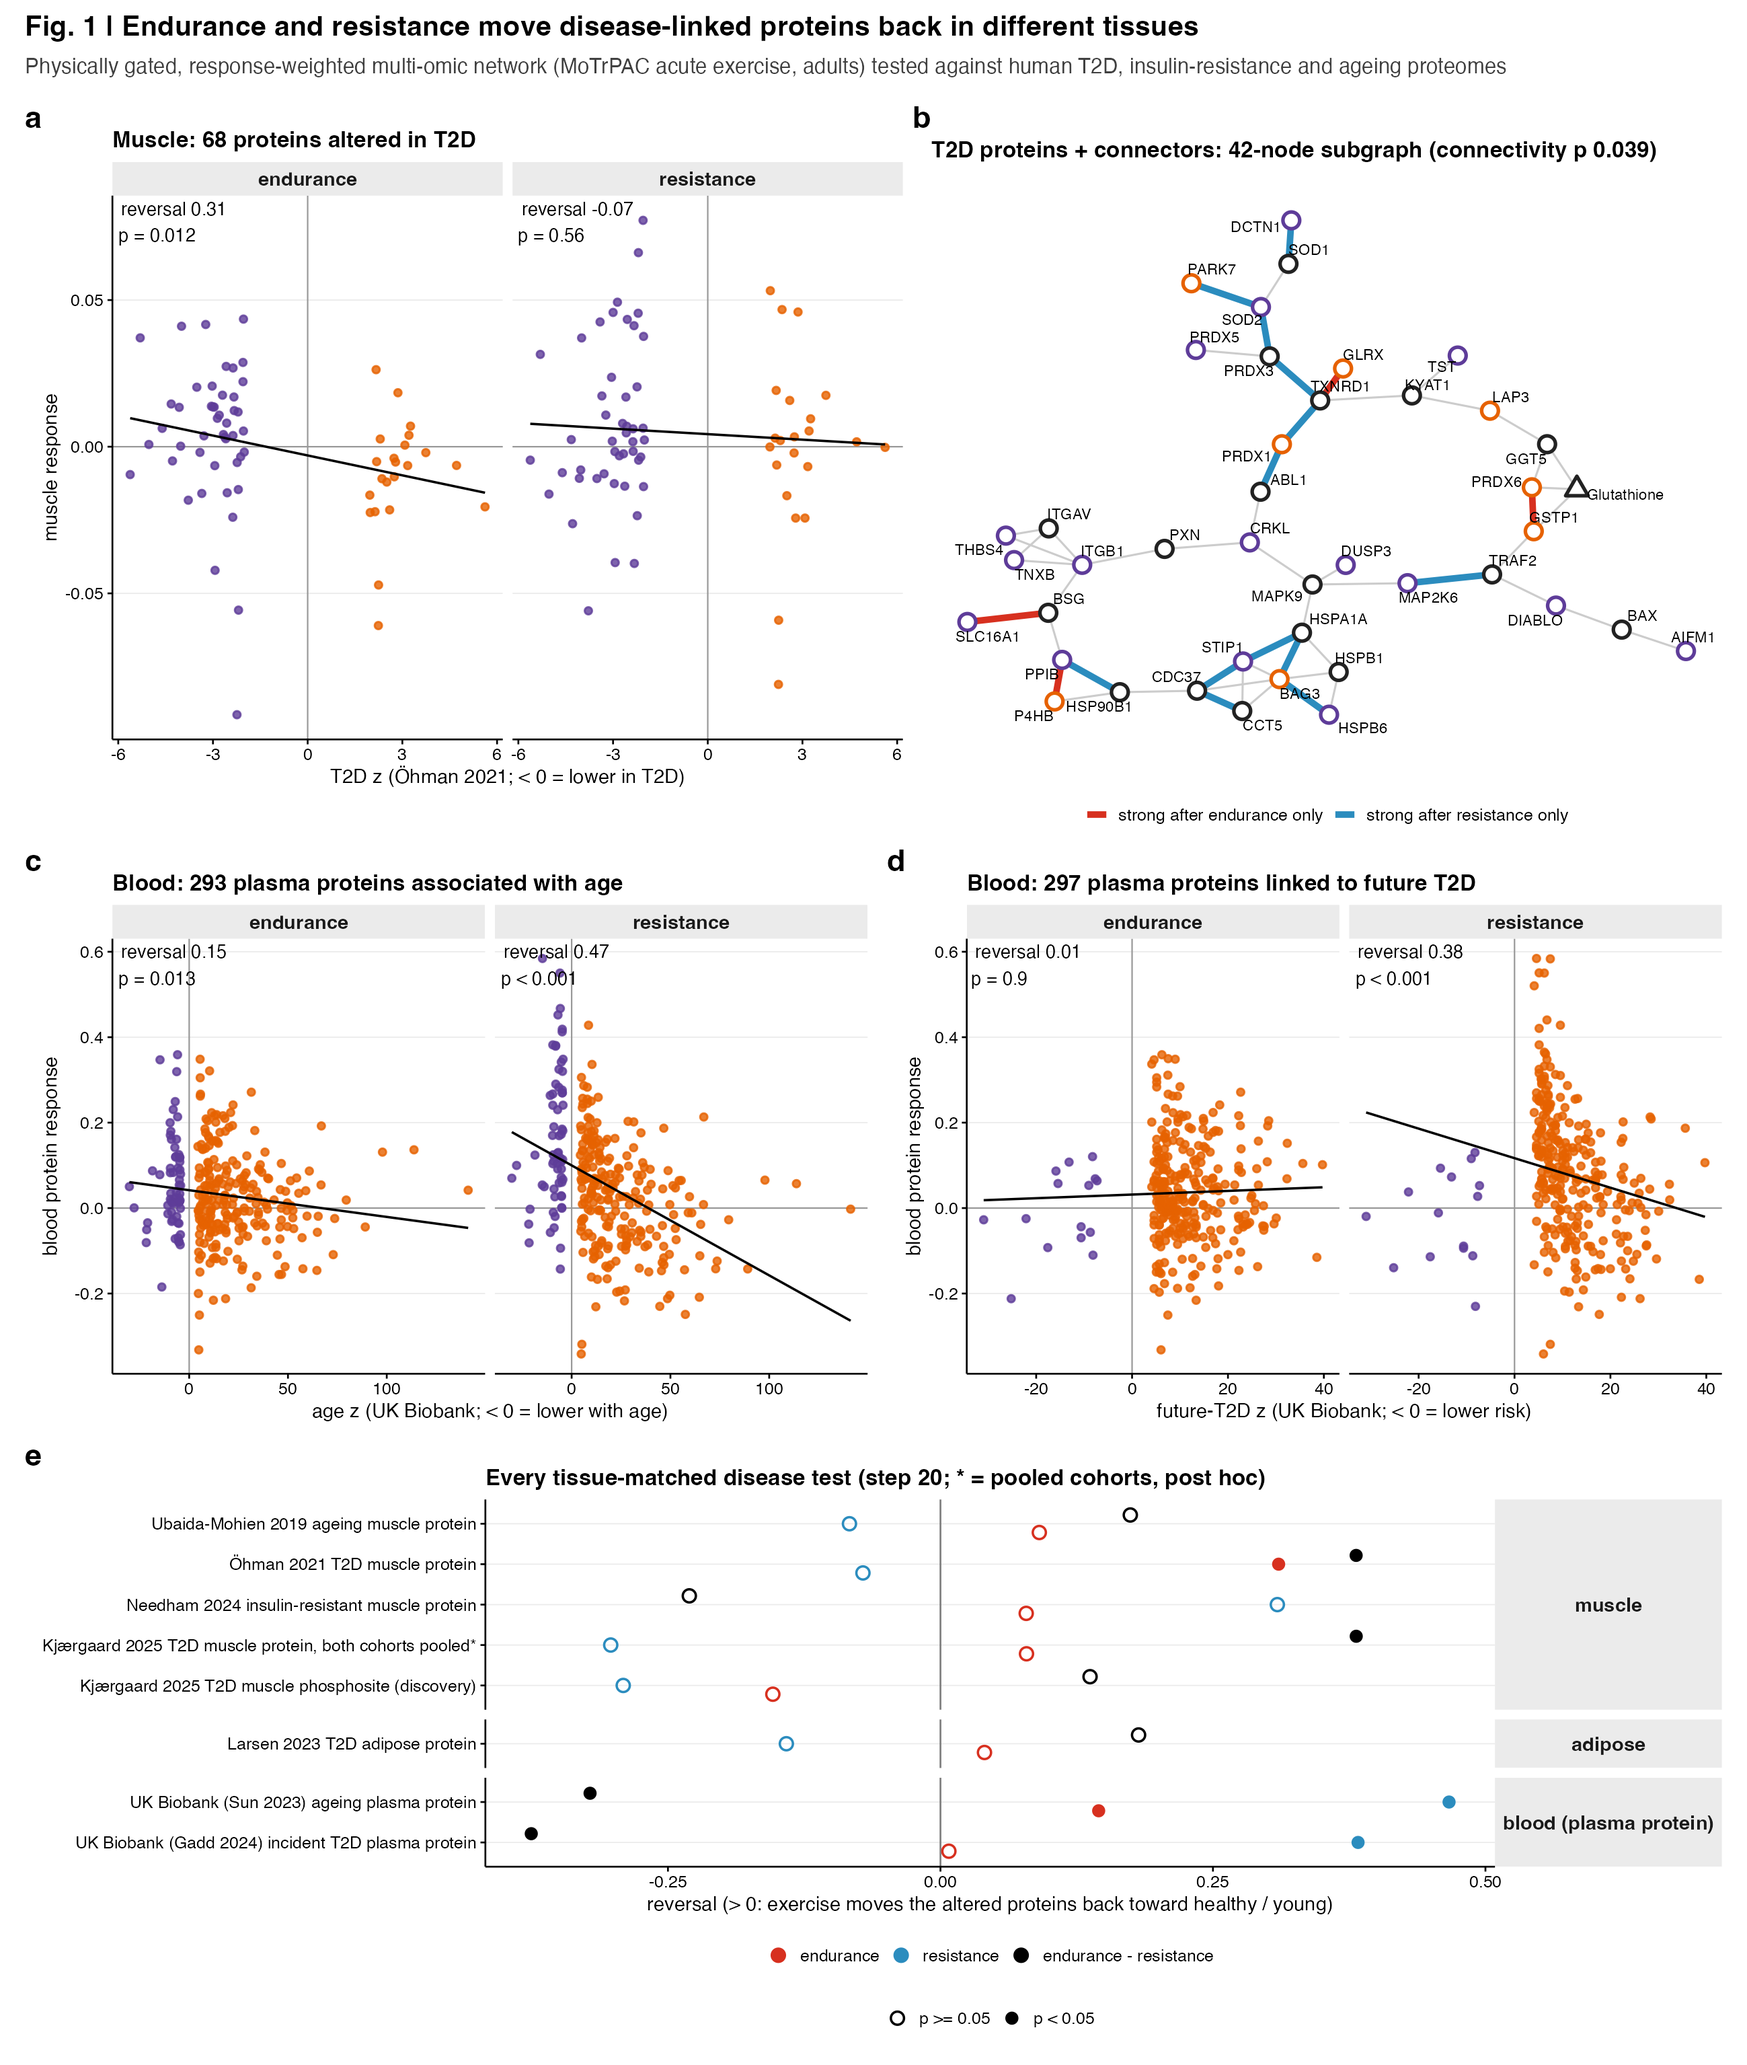
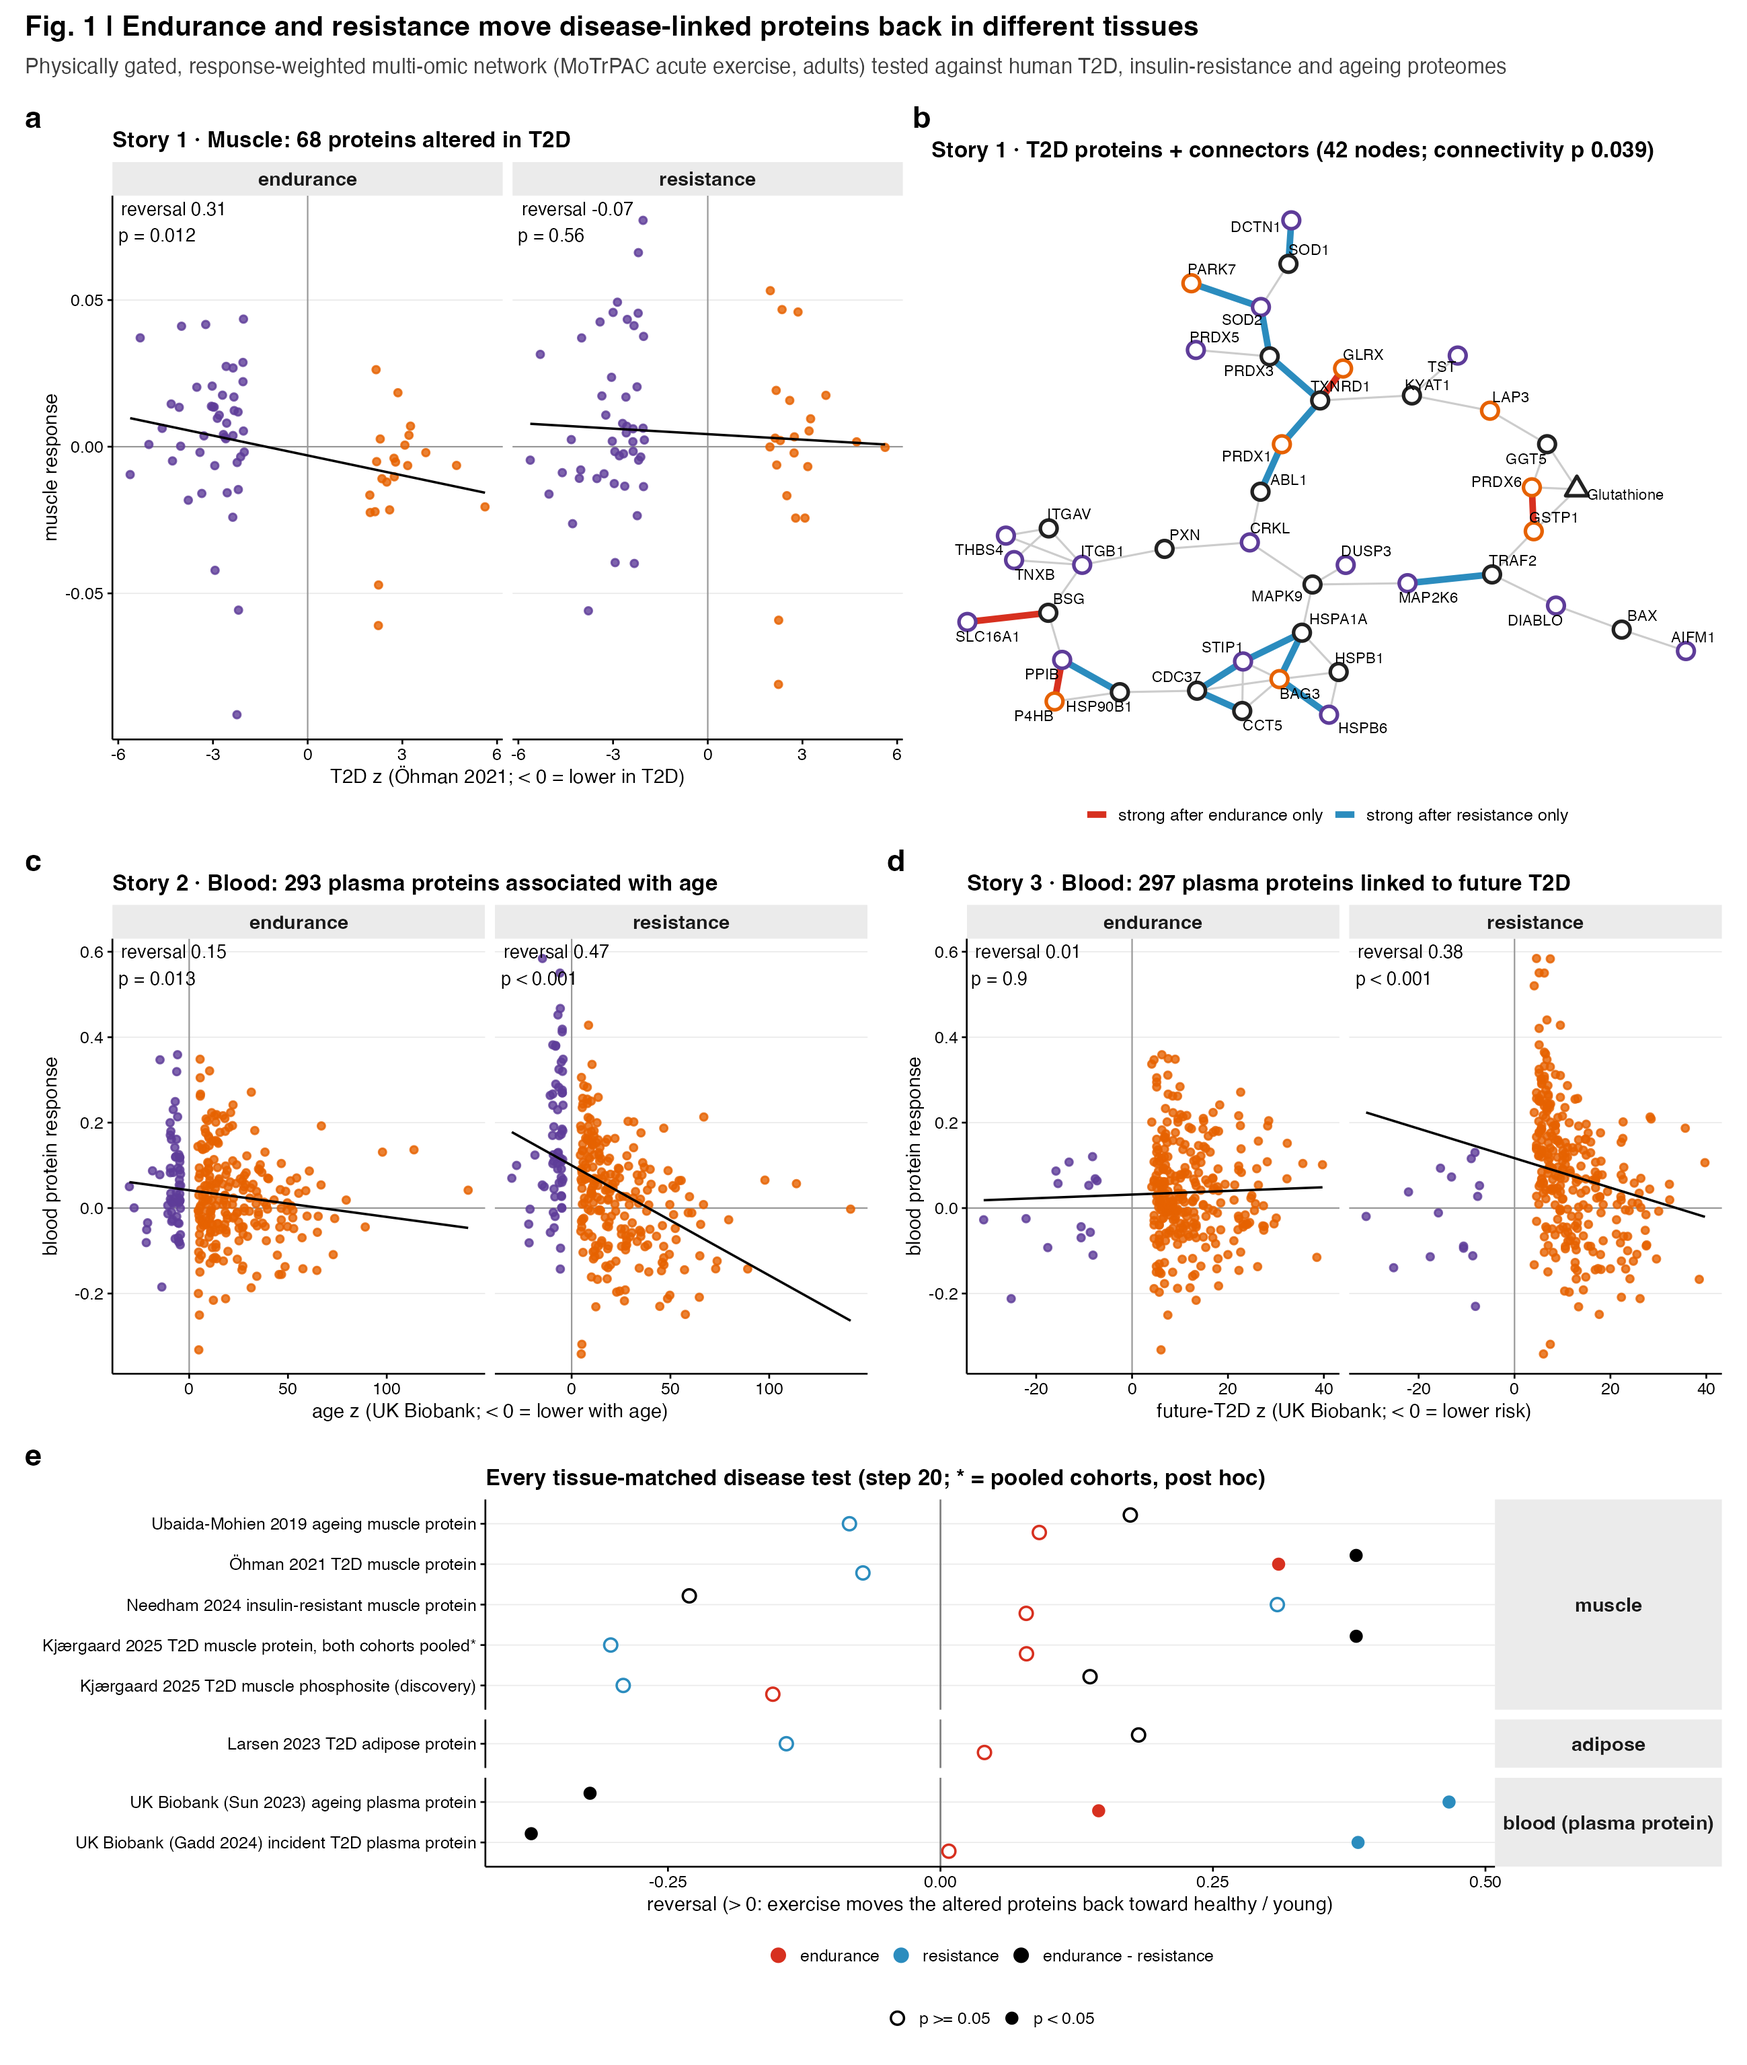
Top 3 stories: (1) muscle T2D proteome (Öhman), (2) blood UK Biobank ageing proteins, (3) blood UK Biobank future-T2D proteins; Kjærgaard pooled, Needham and muscle ageing moved to supporting sets; stories numbered in Fig. 1 and the presentation outline

diff --git a/network/README.md b/network/README.md
@@ -44,17 +44,26 @@ and the disease tests ask whether each kind of exercise pushes the molecules a d
   black box; figure below); (b) each disease comparison is tissue-matched, pre-specified and tested against a
   permutation null, with post-hoc steps labelled; (c) anyone can rerun the pipeline and get the numbers in section 7.
 
-**The answer (three-part story; Fig. 1, figures 19-21, tables in section 6 steps 19-20):**
+**The answer: three top stories** (Fig. 1 panels a-d; figures 19-21; tables in section 6, steps 19-20):
 
-| | Evidence | Endurance | Resistance | Endurance − resistance |
+| Story | Evidence | Endurance | Resistance | Endurance − resistance |
 |---|---|---|---|---|
-| **1. Discovery (muscle)** | 68 muscle proteins altered in T2D (Öhman 2021, Amar et al. 2024 sets) | **reverses T2D** (0.31, p 0.012) | no (−0.07, p 0.56) | **+0.38, p 0.007** |
+| **1. Muscle · T2D** | 68 muscle proteins altered in T2D (Öhman 2021, the Amar et al. 2024 sets) | **reverses T2D** (0.31, p 0.012) | no (−0.07, p 0.56) | **+0.38, p 0.007** |
 | | their network neighbourhood: T2D proteins + connectors (42 nodes) | | | more connected than chance, **p 0.039** |
-| **2. Replication (muscle)** | Kjærgaard 2025, two cohorts pooled (123 people; post hoc) | 0.08 | moves proteins **toward** T2D (−0.30, p 0.067) | **+0.38, p 0.007** |
-| **3. Blood** | 297 plasma proteins linked to future T2D (UK Biobank, Gadd 2024) | 0.01 (p 0.90) | **reverses** (0.38, p < 0.001) | **−0.38, p < 0.001** |
-| | 293 plasma proteins associated with age (UK Biobank, Sun 2023) | 0.15 (p 0.013) | **reverses** (0.47, p < 0.001) | **−0.32, p < 0.001** |
-| Boundary | insulin-resistant, non-diabetic muscle (Needham 2024) | 0.08 | 0.31 (p 0.078) | −0.23 (n.s.) |
-| | ageing muscle (Ubaida-Mohien 2019) | 0.09 | −0.08 | +0.17 (p 0.08, trend) |
+| **2. Blood · ageing** | 293 plasma proteins associated with age (UK Biobank, Sun 2023) | 0.15 (p 0.013) | **reverses** (0.47, p < 0.001) | **−0.32, p < 0.001** |
+| **3. Blood · future T2D** | 297 plasma proteins linked to future T2D (UK Biobank, Gadd 2024) | 0.01 (p 0.90) | **reverses** (0.38, p < 0.001) | **−0.38, p < 0.001** |
+
+Together: **endurance moves the T2D muscle proteome back toward healthy; resistance moves the plasma proteins of
+ageing and of future T2D back toward young / low risk.**
+
+*Supporting and boundary sets* (same tests; figure 20a):
+
+| Set | Endurance | Resistance | Endurance − resistance |
+|---|---|---|---|
+| Kjærgaard 2025 T2D muscle, two cohorts pooled (123 people; **post hoc**) | 0.08 | −0.30 (toward T2D; p 0.067) | +0.38, p 0.007 (discovery alone p 0.039; validation alone p 0.80) |
+| Needham 2024 insulin-resistant, non-diabetic muscle | 0.08 | 0.31 (p 0.078) | −0.23 (n.s.) |
+| Ubaida-Mohien 2019 ageing muscle | 0.09 | −0.08 | +0.17 (p 0.08, trend) |
+| Chae 2018 T2D muscle; Larsen 2023 T2D adipose; Kjærgaard phosphosites | — | — | n.s. |
 
 "Reversal" = −Spearman(disease z, exercise response) over the disease-altered proteins, in the tissue the disease
 data come from; > 0 means exercise moves proteins that are lower in the disease up and those higher down.

diff --git a/network/docs/PRESENTATION.md b/network/docs/PRESENTATION.md
@@ -5,14 +5,14 @@ approach) · **GitHub** (documentation & integrity, technical complexity).
 
 | # | Slide | Show | Say (one line) | Criterion |
 |---|---|---|---|---|
-| 1 | Title — Team 2-PAC | Fig. 1 thumbnail | "Endurance and resistance move disease proteins back — in different tissues." | content |
+| 1 | Title — Team 2-PAC | Fig. 1 thumbnail | "Three stories: endurance fixes the T2D muscle proteome; resistance fixes the plasma proteins of ageing and future T2D." | content |
 | 2 | The question | Track brief + T2D | "Exercise as medicine: which kind, for which tissue? We picked T2D, as the brief asks." | content, impact |
 | 3 | The data | MoTrPAC 3 tissues x 3 omes; 7 disease / ageing proteomes incl. UK Biobank | "Tissue-matched disease data only — no liver-vs-muscle shortcuts." | methods |
 | 4 | **The method** | Fig. M | "Physical databases decide WHETHER two molecules connect; exercise decides HOW STRONGLY — the same edges in both arms, so every difference is biology, not wiring." | novelty, methods |
 | 5 | The network | Figure 17 live (arm-specific edges on) | "353 molecules, 704 edges; red = endurance-only, blue = resistance-only." | technical complexity |
-| 6 | Discovery (muscle) | Fig. 1a-b | "Endurance reverses the T2D muscle proteome (p 0.007 vs resistance); T2D proteins form a connected subgraph (p 0.039)." | impact |
-| 7 | Replication | Fig. 1e, 20d | "Same gap in the independent Kjærgaard cohorts (pooled, post hoc — we say so)." | integrity |
-| 8 | The blood side | Fig. 1c-d | "In plasma it flips: resistance reverses the proteins of ageing and future T2D (UK Biobank, p < 0.001)." | novelty, impact |
+| 6 | **Story 1 · Muscle T2D** | Fig. 1a-b | "Endurance reverses the T2D muscle proteome (p 0.007 vs resistance); the T2D proteins form a connected subgraph (p 0.039)." | impact |
+| 7 | **Story 2 · Blood ageing** | Fig. 1c | "In plasma it flips: resistance reverses the 293 proteins of ageing (UK Biobank, p < 0.001)." | novelty, impact |
+| 8 | **Story 3 · Blood future T2D** | Fig. 1d, Fig. 1e | "And the 297 plasma proteins that predict T2D years ahead (UK Biobank, p < 0.001) — resistance again. Supporting: the pooled Kjærgaard muscle cohorts (post hoc) show the same muscle gap." | impact, integrity |
 | 9 | Honest limits | README roadblocks | "Direction matches, one acute bout, healthy adults — not treatment. What didn't work, and why we dropped it." | integrity |
 | 10 | Reproducible, not a black box | run_all + tests + manifest | "One command, 10 minutes: 25 engine tests, 44 checks, 139 outputs byte-identical." | documentation, complexity |
 | 11 | Team + next steps | Contributors table, roadmap | "Who did what; blood-cell-composition control and training data next." | collaboration |

diff --git a/README.md b/README.md
@@ -10,7 +10,7 @@ endurance in muscle, resistance in blood — read off one physically gated, exer
 | **Question** | Do endurance and resistance exercise differ in how they move the molecules disturbed in type 2 diabetes (and ageing, its main risk factor)? In which tissue? |
 | **Data** | MoTrPAC human acute exercise (RNA, protein, metabolites; adipose, blood, muscle) · STRING v12 and Rhea physical interactions · seven published T2D / insulin-resistance / ageing proteomes incl. UK Biobank |
 | **Method** | every edge = a **physical link** (hard: STRING ≥ 700 or Rhea) weighted by the **dot product of the two molecules' exercise responses** (soft), per arm — see the figure below and [`network/engine`](network/engine) |
-| **Finding** | muscle: endurance reverses the T2D proteome, resistance does not (difference p 0.007), and the T2D proteins form a connected subgraph (p 0.039); blood: resistance reverses the plasma proteins of ageing and of future T2D (UK Biobank, p < 0.001) |
+| **Top 3 stories** | **1. Muscle · T2D:** endurance reverses the T2D muscle proteome (Öhman 2021), resistance does not (difference p 0.007); the T2D proteins form a connected subgraph (p 0.039) · **2. Blood · ageing:** resistance reverses the 293 plasma proteins of ageing (UK Biobank; 0.47, p < 0.001) · **3. Blood · future T2D:** resistance reverses the 297 plasma proteins linked to future T2D (UK Biobank; 0.38, p < 0.001) |
 | **Reproduce** | `bash network/run_all.sh` — ~10 minutes, 25 engine tests + 44 validation checks, 139 outputs byte-identical to the reference run |
 | **Read more** | [`network/README.md`](network/README.md): full documentation (snapshot, question, workflow, setup, inputs/outputs, methods, validation, reuse) |
 
